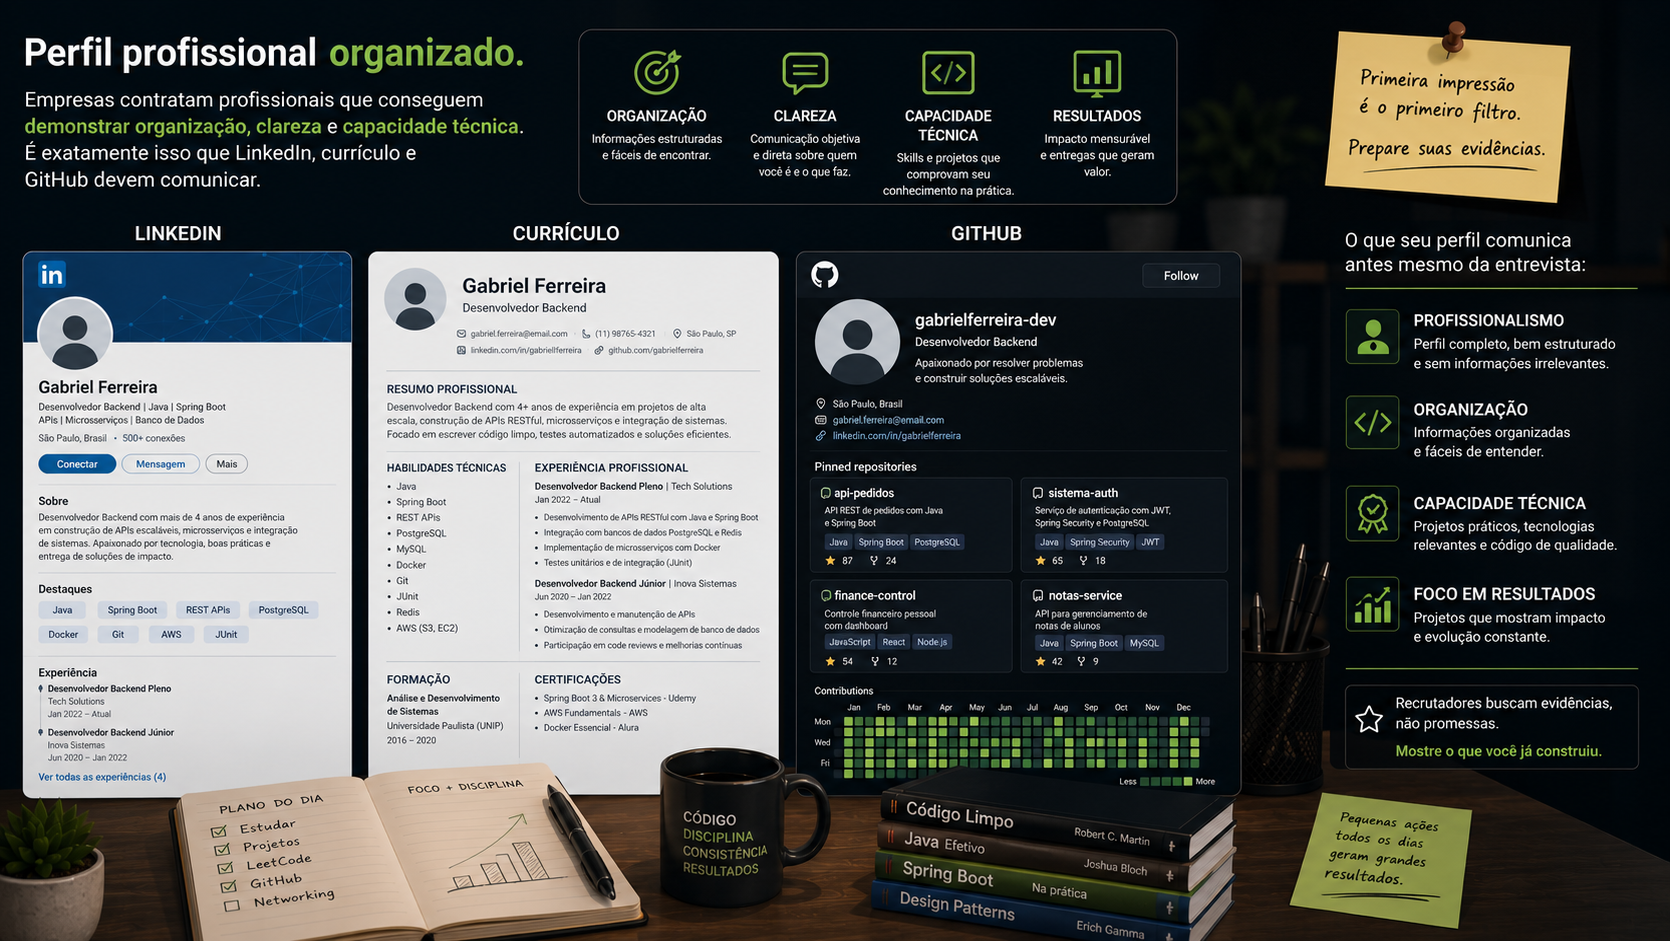
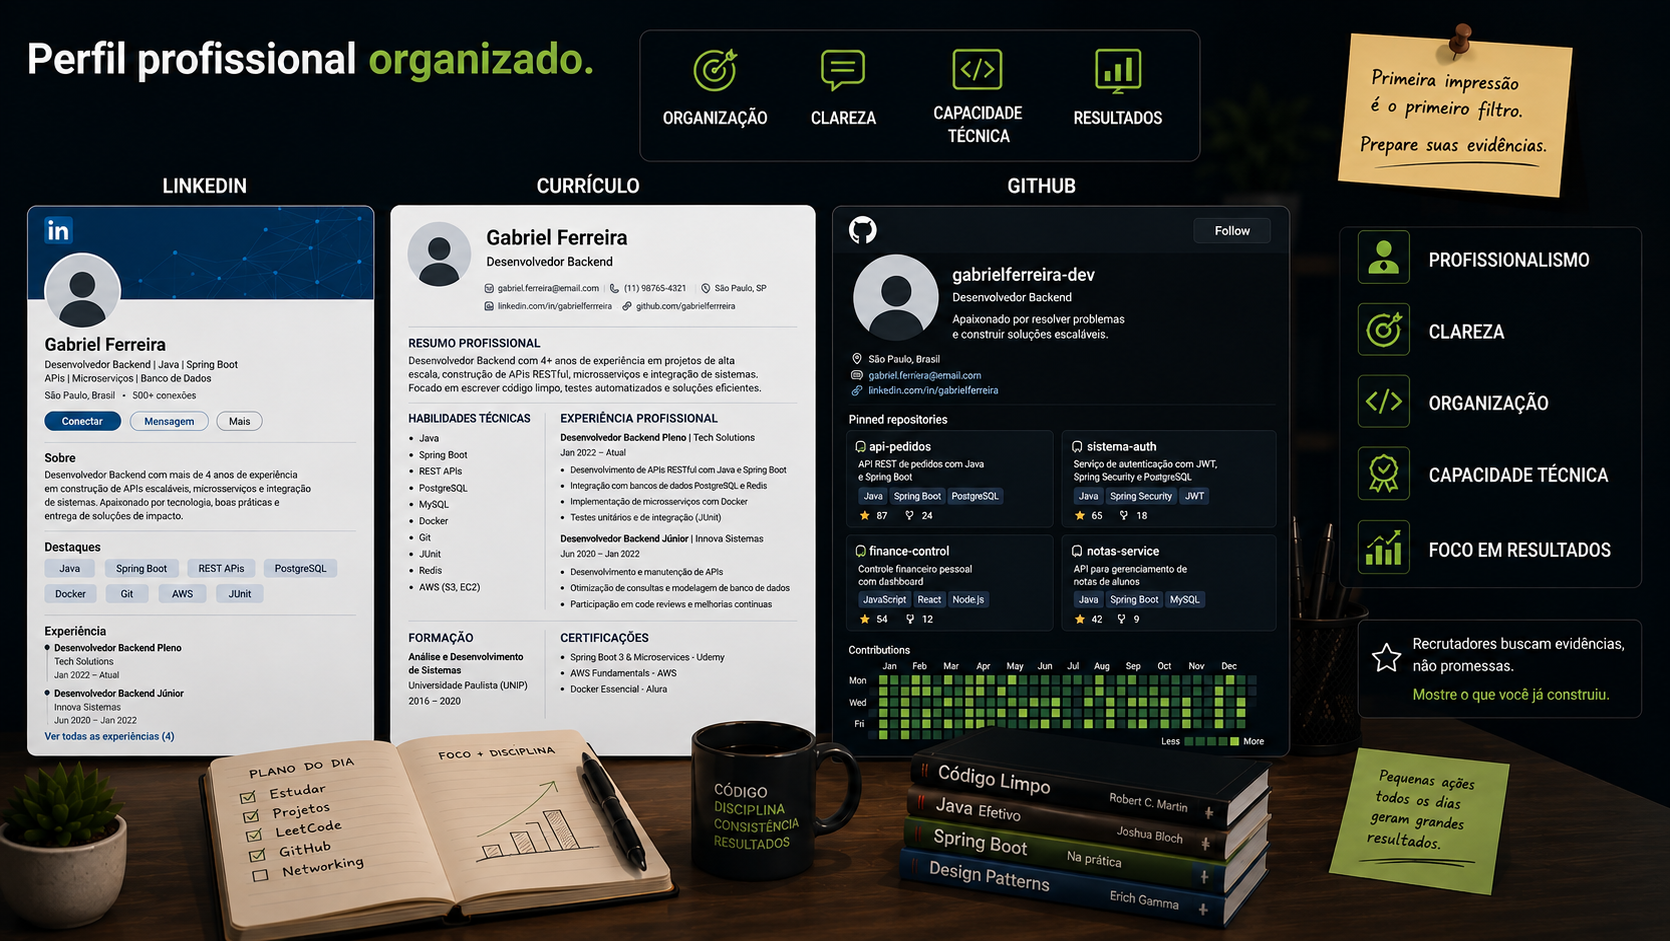
mudança 1 dia 13

diff --git a/index.html b/index.html
@@ -455,7 +455,7 @@
 
           <div class="product-card reveal" data-c="green">
 
-            <img src="image/LivroBanco.jpg" alt="Entrevistas" class="product-img" loading="lazy" decoding="async">
+            <img src="image/LivroLinkdin.jpg" alt="Entrevistas" class="product-img" loading="lazy" decoding="async">
 
             <span class="product-badge">
               Entrevistas
@@ -489,14 +489,14 @@
 
           </div>
 
-          <!-- Plano -->
+          <!-- Plano de Ação -->
 
           <div class="product-card reveal" data-c="purple">
 
             <img src="image/LivroPlano.jpg" alt="Plano de Ação" class="product-img" loading="lazy" decoding="async">
 
             <span class="product-badge">
-              Plano de 30 Dias
+              Plano de Ação
             </span>
 
             <h3>Plano de Ação</h3>
@@ -615,22 +615,27 @@
         <div class="feedback-grid">
 
           <div class="feedback-card">
-            <img src="image/depoimento-1.png" alt="Prévia do Guia Principal" class="feedback-img" loading="lazy"
+            <img src="image/Depoimento2.jpg" alt="Prévia do Guia Principal" class="feedback-img" loading="lazy"
               decoding="async">
           </div>
 
           <div class="feedback-card">
-            <img src="image/depoimento-2.jpg" alt="Exemplo de LinkedIn otimizado" class="feedback-img" loading="lazy"
+            <img src="image/Depoimento5.jpg" alt="Exemplo de LinkedIn otimizado" class="feedback-img" loading="lazy"
               decoding="async">
           </div>
 
           <div class="feedback-card">
-            <img src="image/depoimento-3.jpg" alt="Exemplo de GitHub profissional" class="feedback-img" loading="lazy"
+            <img src="image/Depoimento3.jpg" alt="Exemplo de GitHub profissional" class="feedback-img" loading="lazy"
               decoding="async">
           </div>
 
           <div class="feedback-card">
-            <img src="image/depoimento-4.jpg" alt="Exemplo de currículo ATS" class="feedback-img" loading="lazy"
+            <img src="image/Depoimento4.jpg" alt="Exemplo de currículo ATS" class="feedback-img" loading="lazy"
+              decoding="async">
+          </div>
+
+          <div class="feedback-card">
+            <img src="image/Depoimento1.jpg" alt="Exemplo de currículo ATS" class="feedback-img" loading="lazy"
               decoding="async">
           </div>
 

diff --git a/styles.css b/styles.css
@@ -498,8 +498,6 @@ h3 {
   line-height: 1.6;
 }
 
-/* ===== PRODUCT ===== */
-
 .product-carousel-wrapper {
   display: flex;
   align-items: center;
@@ -530,6 +528,13 @@ h3 {
   background: var(--accent);
   color: #04140c;
   transform: scale(1.05);
+}
+
+/* Esconder setas no mobile */
+@media (max-width: 768px) {
+  .prod-nav-btn {
+    display: none !important;
+  }
 }
 
 .product-grid {
@@ -1191,17 +1196,35 @@ h3 {
 /* ===== FEEDBACK ===== */
 
 .feedback-grid {
-  flex: 1;
-  display: grid;
-  grid-template-columns: repeat(auto-fit, minmax(220px, 1fr));
-  gap: 1.25rem;
+  display: flex;
+  flex-wrap: nowrap;
+  overflow-x: auto;
+  gap: 1.5rem;
+  scroll-snap-type: x mandatory;
+  -webkit-overflow-scrolling: touch;
+  padding: 1rem 0;
+  scrollbar-width: none; /* Firefox */
+  -ms-overflow-style: none;  /* IE and Edge */
+}
+
+.feedback-grid::-webkit-scrollbar {
+  display: none; /* Chrome, Safari and Opera */
 }
 
 .feedback-card {
+  flex: 0 0 300px; /* Largura fixa para os itens do carrossel */
+  scroll-snap-align: center;
   border-radius: var(--radius-md);
   overflow: hidden;
   border: 1px solid var(--border);
   background: var(--card);
+  transition: transform 0.3s ease;
+}
+
+@media (max-width: 480px) {
+  .feedback-card {
+    flex: 0 0 85%; /* No mobile, mostra quase a imagem toda */
+  }
 }
 
 .feedback-img {
@@ -1350,6 +1373,10 @@ footer {
     font-size: 0.8rem;
     flex-wrap: wrap;
     justify-content: center;
+  }
+
+  .prod-nav-btn {
+    display: none !important;
   }
 }
 

diff --git a/script.js b/script.js
@@ -34,7 +34,8 @@ document.addEventListener('DOMContentLoaded', function () {
     function itemWidth() {
       var style = window.getComputedStyle(track);
       var gap = parseFloat(style.columnGap || style.gap || 0);
-      return items[0].getBoundingClientRect().width + gap;
+      // Usamos offsetWidth para pegar a largura real do elemento renderizado
+      return items[0].offsetWidth + gap;
     }
 
     function currentIndex() {
